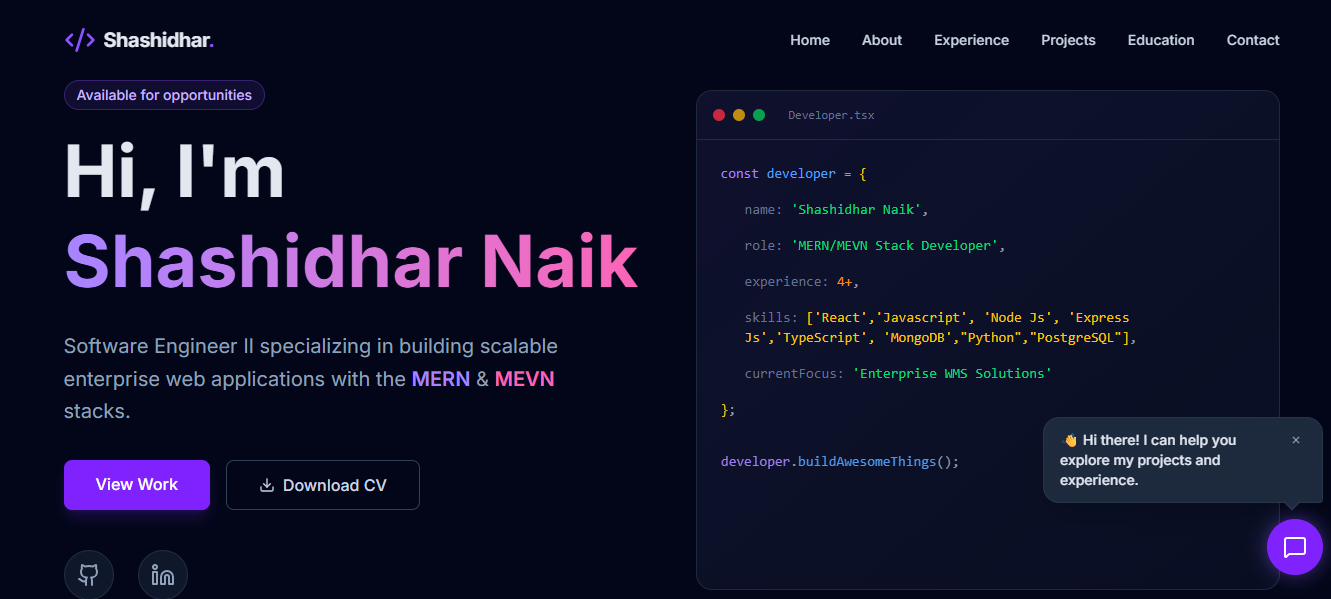
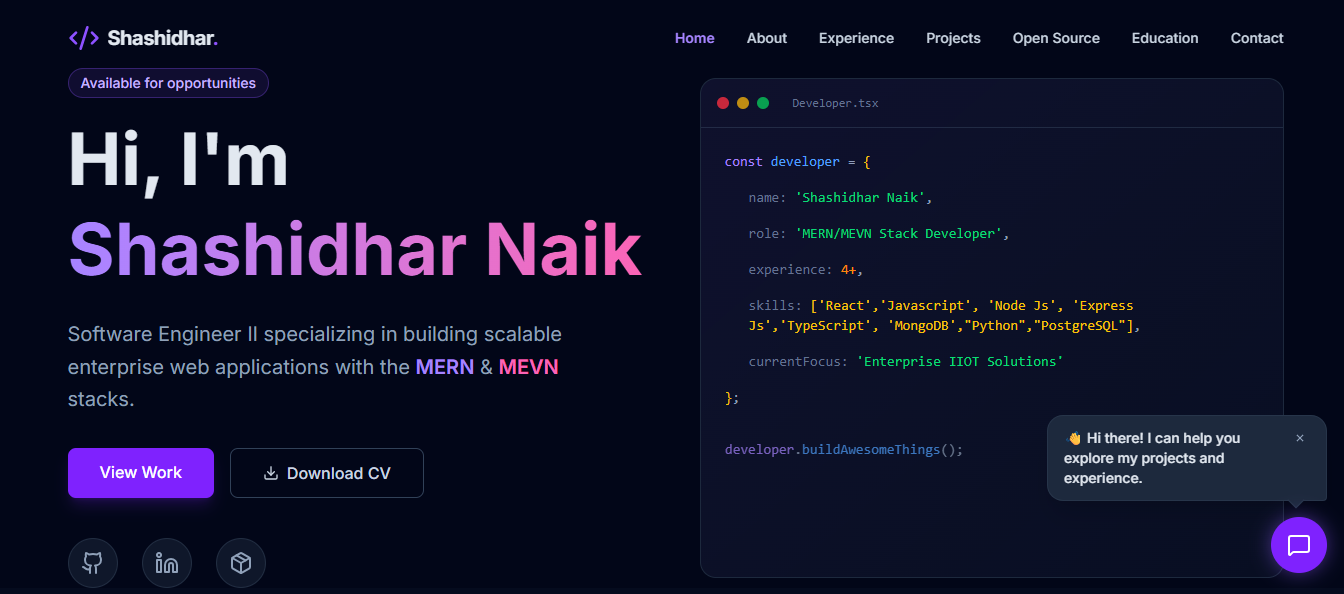
updated readme and hero section

diff --git a/src/components/Hero.tsx b/src/components/Hero.tsx
@@ -94,7 +94,7 @@ const Hero = () => {
                                 <span className="text-slate-500">skills:</span> <span className="text-yellow-400">['React','Javascript', 'Node Js', 'Express Js','TypeScript', 'MongoDB',"Python","PostgreSQL"]</span>,
                             </div>
                             <div className="pl-6">
-                                <span className="text-slate-500">currentFocus:</span> <span className="text-green-400">'Enterprise WMS Solutions'</span>
+                                <span className="text-slate-500">currentFocus:</span> <span className="text-green-400">'Enterprise IIOT Solutions'</span>
                             </div>
                             <div>
                                 <span className="text-yellow-400">{"}"}</span>;
